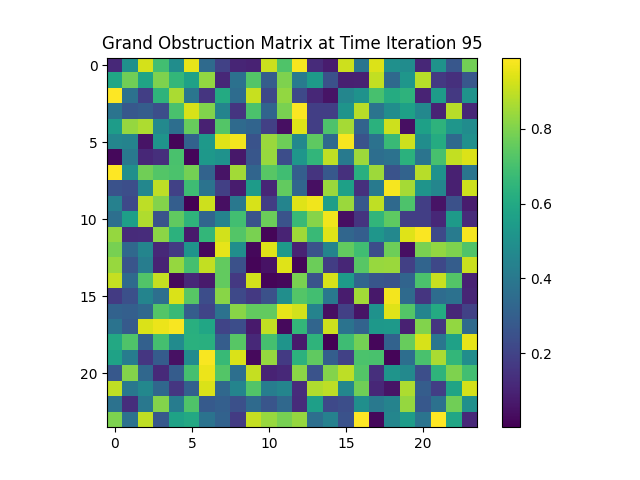
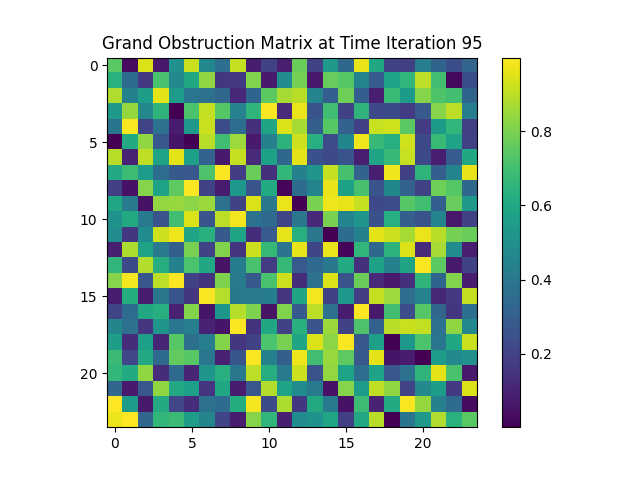
Attempt to add obstruction repitition functionality.

diff --git a/obstruction_and_relic_matrix.py b/obstruction_and_relic_matrix.py
@@ -25,8 +25,6 @@ class SymmetricMatrix:
 
 ###
 
-#grand_obstruction_matrix = SymmetricMatrix(grand_obstruction_matrix_size)
-#obstruction_matrix_i = SymmetricMatrix(24)
 
 class GrandObstructionMatrix(SymmetricMatrix):
   def __init__(self, size):
@@ -35,27 +33,62 @@ class GrandObstructionMatrix(SymmetricMatrix):
   def get_entangled_iteration_index(self, iteration_i, iteration_j):
     return 24 - iteration_j - 1, 24 - iteration_i - 1
   
+  def get_entangled_tiles_iteration_index(self, iteration_i, iteration_j):
+    
+    negative_side_n = (iteration_i//24)
+    positive_side_n = (self.size - iteration_i)//24
+    
+    negative_side_m = (iteration_j//24)
+    positive_side_m = (self.size - iteration_j)//24
+    
+    list_of_n = [n for n in range(-negative_side_n, positive_side_n + 1)]
+    list_of_m = [m for m in range(-negative_side_m, positive_side_m + 1)]
+        
+    list_of_indices = [(iteration_i + n * 24, iteration_j + m * 24) for n in list_of_n for m in list_of_m if 0 <= (iteration_i + n * 24) < self.size and 0 <= (iteration_j + m * 24) < self.size]
+    
+    return list_of_indices
+  
   def set_index_value(self, map_iteration_period, time_iteration, iteration_index, value):
-    
-    obstruction_movement_step = time_iteration // map_iteration_period # make sure // is correct here (for the game)
-    
+    obstruction_movement_step = time_iteration // map_iteration_period  # Ensure // is correct for integer division
+
     iteration_i, iteration_j = iteration_index
     
-    if obstruction_direction == 1:
-      self.data[(self.size - 24 - obstruction_movement_step + iteration_i), (obstruction_movement_step + iteration_j)] = value
-      anti_iteration_i, anti_iteration_j = self.get_entangled_iteration_index(iteration_i, iteration_j)
-      
-      #print( 'obstruction movement step:', obstruction_movement_step)
-      #print( 'anti-iteration i:', anti_iteration_i)
-      #print('self size:', self.size)
-      #print('total:', self.size - 24 - obstruction_movement_step + anti_iteration_i)
-      
-      self.data[(self.size - 24 - obstruction_movement_step + anti_iteration_i), (obstruction_movement_step + anti_iteration_j)] = value
-    else:
-      self.data[(obstruction_movement_step + iteration_i), (self.size - 24 - obstruction_movement_step + iteration_j)] = value
-      anti_iteration_i, anti_iteration_j = self.get_entangled_iteration_index(iteration_i, iteration_j)
-      self.data[(obstruction_movement_step + anti_iteration_i), (self.size - 24 - obstruction_movement_step + anti_iteration_j)] = value
+    anti_iteration_i, anti_iteration_j = self.get_entangled_iteration_index(iteration_i, iteration_j)
+    entangled_tile_indices = self.get_entangled_tiles_iteration_index(iteration_i, iteration_j)
 
+    #print(f"Updating ({iteration_i}, {iteration_j}) → Entangled Tiles: {entangled_tile_indices}")
+    #print(f"Writing value at: ({iteration_i}, {iteration_j}) and Entangled: {entangled_tile_indices}")
+    
+    def clamp_index(index):
+        return max(0, min(self.size - 1, index))
+    
+    if obstruction_direction == 1:
+        # For NE: start near the top for rows and near the right for columns.
+        self.data[clamp_index(obstruction_movement_step + iteration_i),
+                  clamp_index(self.size - 24 - obstruction_movement_step + iteration_j)] = value
+        self.data[clamp_index(obstruction_movement_step + anti_iteration_i),
+                  clamp_index(self.size - 24 - obstruction_movement_step + anti_iteration_j)] = value
+
+        for tile_i, tile_j in entangled_tile_indices:
+            tile_anti_i, tile_anti_j = self.get_entangled_iteration_index(tile_i, tile_j)
+            self.data[clamp_index(obstruction_movement_step + tile_i),
+                      clamp_index(self.size - 24 - obstruction_movement_step + tile_j)] = value
+            self.data[clamp_index(obstruction_movement_step + tile_anti_i),
+                      clamp_index(self.size - 24 - obstruction_movement_step + tile_anti_j)] = value
+    else:
+        # For SW: start near the bottom for rows and near the left for columns.
+        self.data[clamp_index(self.size - 24 - obstruction_movement_step + iteration_i),
+                  clamp_index(obstruction_movement_step + iteration_j)] = value
+        self.data[clamp_index(self.size - 24 - obstruction_movement_step + anti_iteration_i),
+                  clamp_index(obstruction_movement_step + anti_iteration_j)] = value
+
+        for tile_i, tile_j in entangled_tile_indices:
+            tile_anti_i, tile_anti_j = self.get_entangled_iteration_index(tile_i, tile_j)
+            self.data[clamp_index(self.size - 24 - obstruction_movement_step + tile_i),
+                      clamp_index(obstruction_movement_step + tile_j)] = value
+            self.data[clamp_index(self.size - 24 - obstruction_movement_step + tile_anti_i),
+                      clamp_index(obstruction_movement_step + tile_anti_j)] = value
+            
   def get_index_value(self, index):
       """
       Retrieves the value at a given index.
@@ -66,19 +99,20 @@ class GrandObstructionMatrix(SymmetricMatrix):
 
       return self.data[i, j]
   
-  def get_obstruction_matrix_iteration (self, map_iteration_period, time_iteration):
-    total_size = self.size
-    
-    obstruction_movement_step = time_iteration // map_iteration_period # make sure // is correct here (for the game)
-    
-    if obstruction_direction == 1:
-      obstruction_matrix_iteration = self.data[(total_size - 24 - obstruction_movement_step) : (total_size - obstruction_movement_step),
-                                                              (obstruction_movement_step) : (24 + obstruction_movement_step)]
-    else:
-      obstruction_matrix_iteration = self.data[(obstruction_movement_step) : (24 + obstruction_movement_step),
-                                                              (total_size - 24 - obstruction_movement_step) : (total_size - obstruction_movement_step)]
-      
-    return obstruction_matrix_iteration
+  def get_obstruction_matrix_iteration(self, map_iteration_period, time_iteration):
+      total_size = self.size
+      obstruction_movement_step = time_iteration // map_iteration_period
+      if obstruction_direction == 1:
+        # For NE: extract rows from obstruction_movement_step to (24+step)
+        # and columns from (total_size-24-step) to (total_size-step)
+        obstruction_matrix_iteration = self.data[obstruction_movement_step:(24 + obstruction_movement_step),
+                                                  (total_size - 24 - obstruction_movement_step):(total_size - obstruction_movement_step)]
+      else:
+        # For SW: extract rows from (total_size-24-step) to (total_size-step)
+        # and columns from obstruction_movement_step to (24+step)
+        obstruction_matrix_iteration = self.data[(total_size - 24 - obstruction_movement_step):(total_size - obstruction_movement_step),
+                                                  obstruction_movement_step:(24 + obstruction_movement_step)]
+      return obstruction_matrix_iteration
   
 # Trial simulation
 
@@ -88,15 +122,34 @@ grand_obstruction_matrix = GrandObstructionMatrix(grand_obstruction_matrix_size)
 # Set some values in the matrix (for the sake of this trial)
 for time_iteration in range(0, 100, 5):  # Simulating 20 steps
     for i in range(24):  # Simulate a 24x24 section
-        for j in range(24 - i):
+        for j in range(24):
             value = np.random.rand()  # Random value for demonstration
             grand_obstruction_matrix.set_index_value(map_iteration_period, time_iteration, (i, j), value)
 
-# Create plot of the final iteration's obstruction matrix
+# Extract the 24×24 slice of the obstruction matrix at iteration 95
 obstruction_matrix = grand_obstruction_matrix.get_obstruction_matrix_iteration(20, 95)
 
-# Plot the matrix
-plt.imshow(obstruction_matrix, cmap='viridis', interpolation='nearest')
-plt.colorbar()
-plt.title("Grand Obstruction Matrix at Time Iteration 95")
-plt.savefig('obstruction_matrix.png')
+# Extract the full grand obstruction matrix
+full_matrix = grand_obstruction_matrix.data  # The entire matrix
+
+# Set up side-by-side plots
+fig, axes = plt.subplots(1, 2, figsize=(12, 6))
+
+# Normalize color scale across both plots
+vmin, vmax = np.min(full_matrix), np.max(full_matrix)
+
+# Plot the 24x24 slice
+im1 = axes[0].imshow(obstruction_matrix, cmap="viridis", interpolation="nearest", vmin=vmin, vmax=vmax)
+axes[0].set_title("24×24 Slice at Iteration 95")
+fig.colorbar(im1, ax=axes[0])
+
+# Plot the full grand obstruction matrix
+im2 = axes[1].imshow(full_matrix, cmap="viridis", interpolation="nearest", vmin=vmin, vmax=vmax)
+axes[1].set_title("Full Grand Obstruction Matrix")
+fig.colorbar(im2, ax=axes[1])
+
+# Save and show the plot
+plt.tight_layout()
+plt.savefig("obstruction_matrix_comparison.png")
+plt.show()
+
